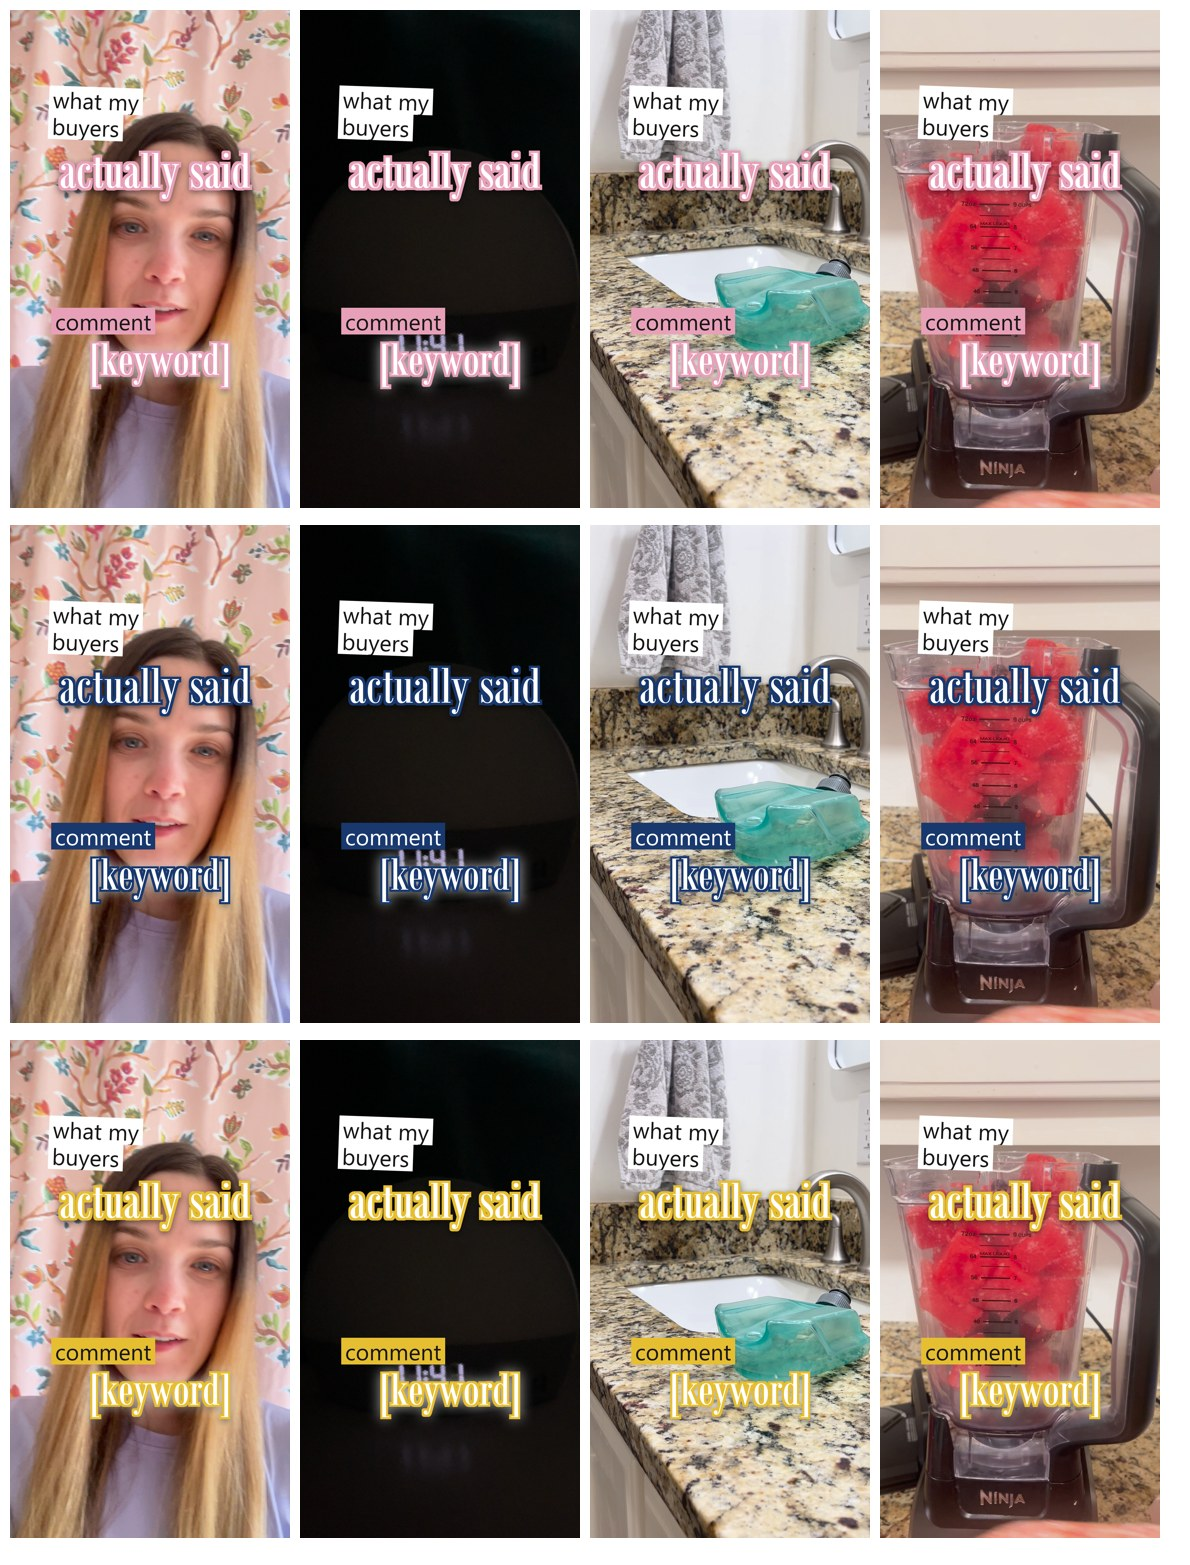
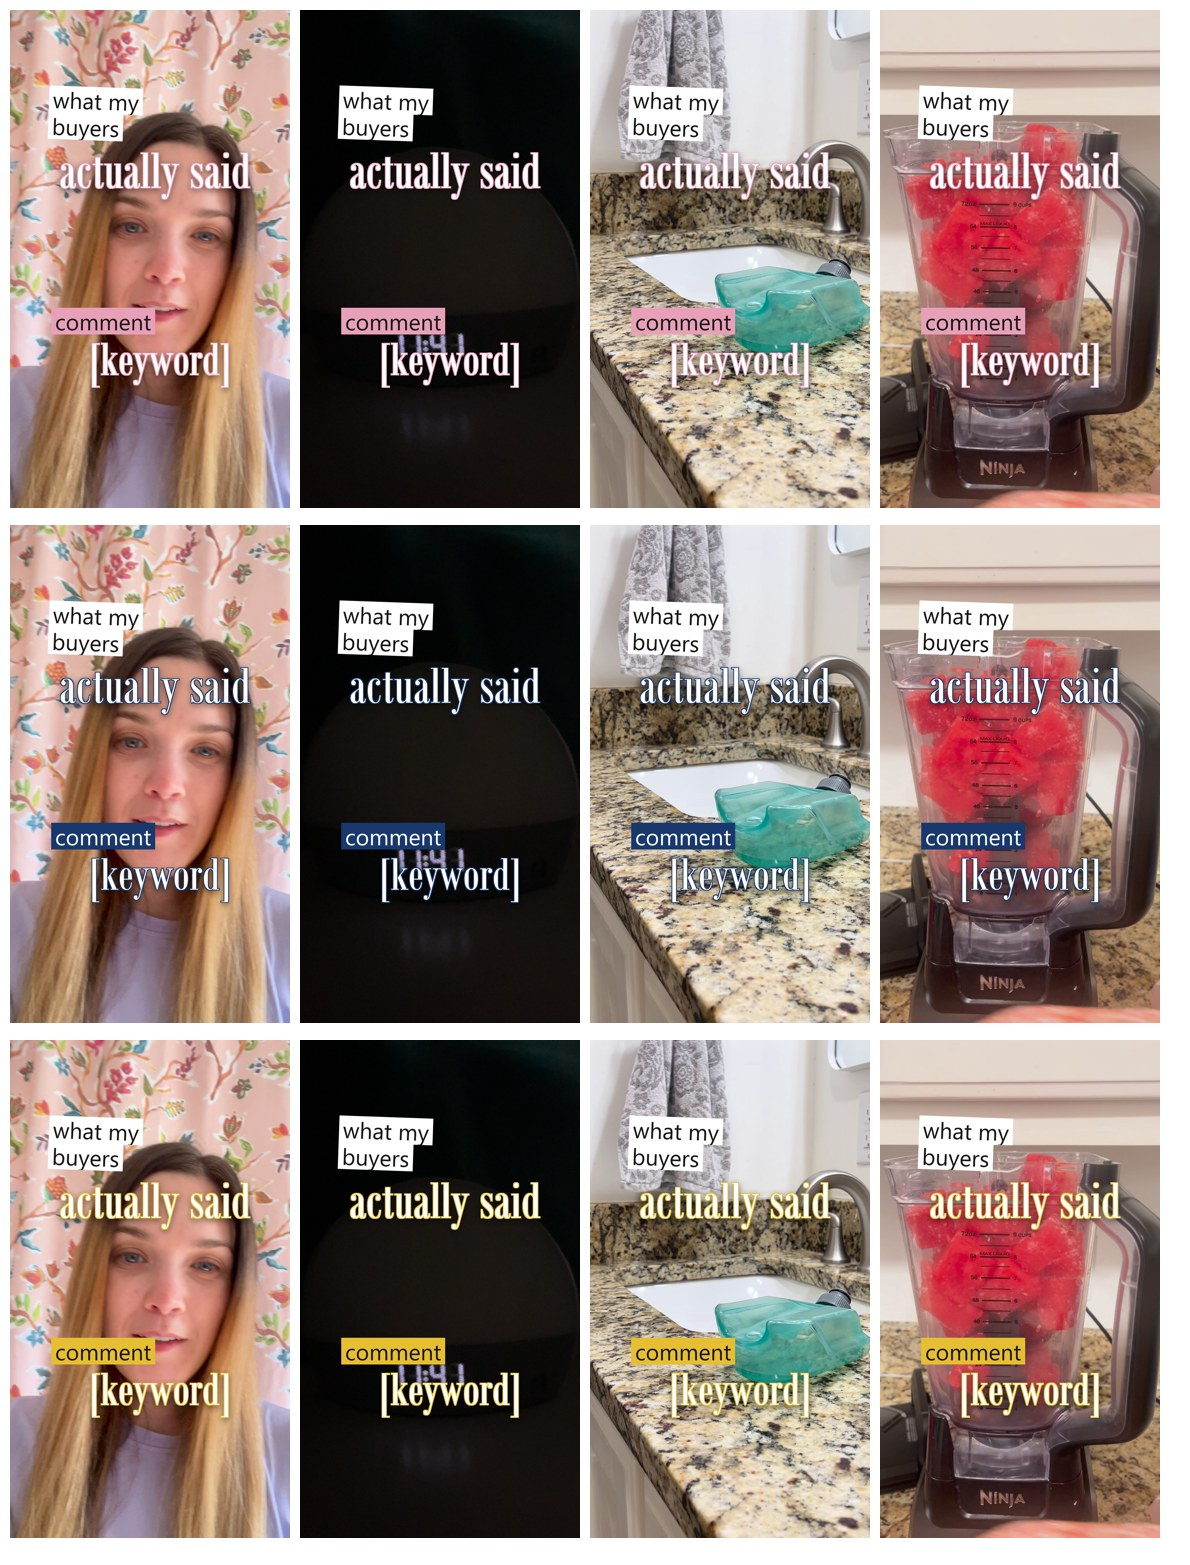
Reel Template Packs: type system, thin outline, glow only as an animated emphasis

diff --git a/automation/reel-template-pack/build/type_system.py b/automation/reel-template-pack/build/type_system.py
@@ -26,7 +26,7 @@ def highlight(lines, px, bg, rot=0):
 
 def outlined(text, px, edge, fill=WHITE, ew=None, glow=False):
     """The key word: condensed serif, white, thick outline in the brand colour, soft shadow; glow only for the CTA."""
-    f = S.F(SERIF_C, px); l, t, r, b = f.getbbox(text); ew = ew or max(6, px // 22); pad = ew * 3 + 40; w, h = r - l + 2 * pad, b - t + 2 * pad
+    f = S.F(SERIF_C, px); l, t, r, b = f.getbbox(text); ew = ew or max(3, px // 55); pad = ew * 3 + 40; w, h = r - l + 2 * pad, b - t + 2 * pad
     m = Image.new('L', (w, h), 0); ImageDraw.Draw(m).text((pad - l, pad - t), text, font=f, fill=255); out = Image.new('RGBA', (w, h), (0, 0, 0, 0))
     sh = Image.new('RGBA', (w, h), (0, 0, 0, 0)); sh.putalpha(m.filter(ImageFilter.MaxFilter(2 * ew + 1)).filter(ImageFilter.GaussianBlur(12)).point(lambda v: int(v * 0.5))); out.alpha_composite(sh, (0, 8))
     if glow:
@@ -41,7 +41,7 @@ def frame(clip, brand):
     put(im, highlight(['what my', 'buyers'], 88, WHITE, -2), (330, 400))
     put(im, outlined('actually said', 210, brand), (560, 640))
     put(im, highlight(['comment'], 88, brand), (360, 1200))
-    put(im, outlined('[keyword]', 190, brand, glow=True), (580, 1370))
+    put(im, outlined('[keyword]', 190, brand), (580, 1370))   # glow is an animation effect for emphasis, not static
     return im
 
 def main():

diff --git a/automation/reel-template-pack/round3-notes.md b/automation/reel-template-pack/round3-notes.md
@@ -102,3 +102,5 @@ Outlined = easy to read (use); highlight boxes = underused (use most); pill = ov
 emphasis only; video/transparent fill = very sparingly; tiny captions too small. Proposal: type-system-test.jpg
 (build/type_system.py): small lines in sans on highlight boxes (white or brand), key words in a condensed serif
 (Bodoni MT Condensed) white with a thick brand-colour outline, glow only on the CTA keyword.
+
+- Round 4b: outline too thick and the static glow unreadable. Now a thin outline (px/55) and no static glow; glow is only an animation effect for emphasis (a brief flash on a key word).
